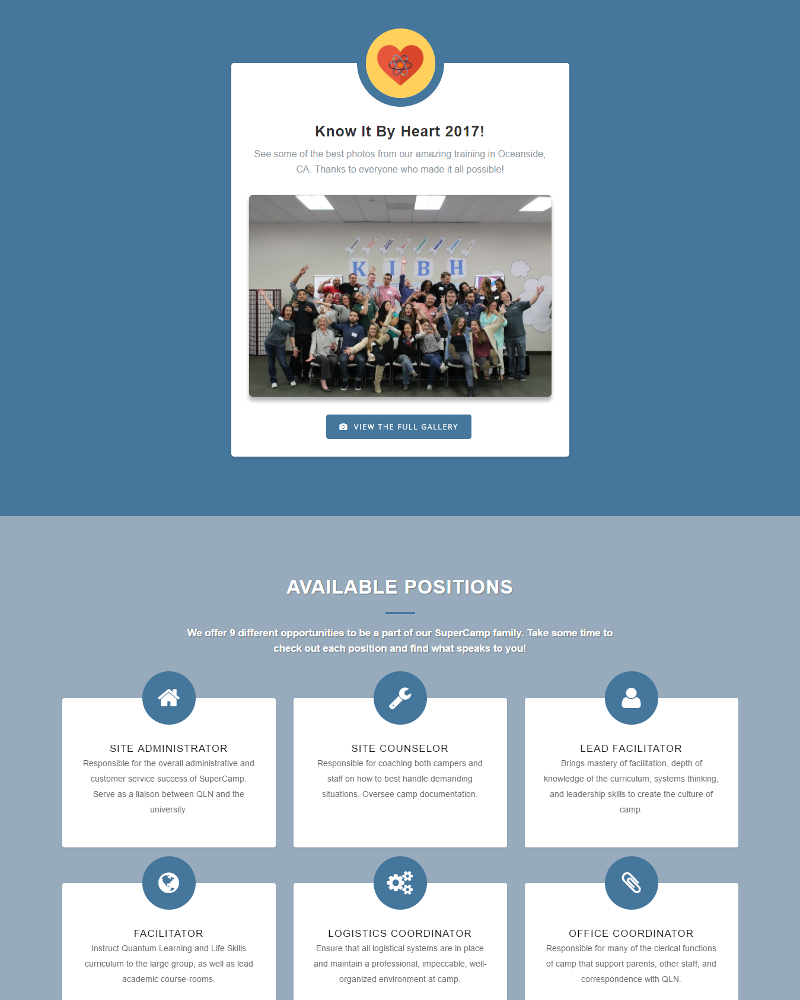
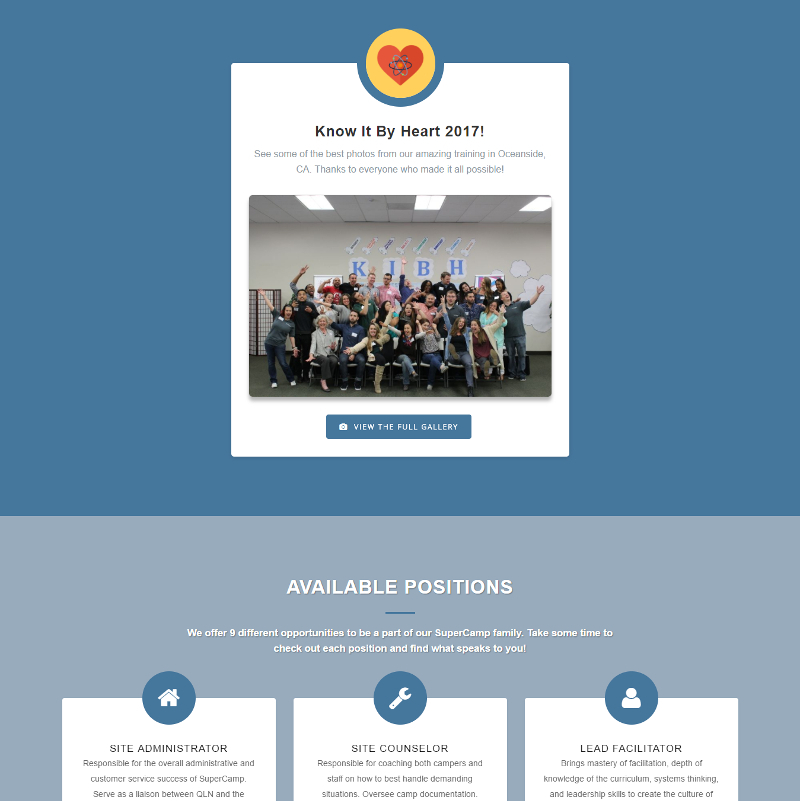
made img 1 shorter and added red cross leadership experience

diff --git a/index.html b/index.html
@@ -400,6 +400,45 @@
 
    	</div> <!-- /resume-timeline -->
 
+    <!-- Leadership -->
+
+    <div class="row resume-timeline">
+
+   		<div class="col-twelve resume-header">
+
+   			<h2>Leadership</h2>
+
+   		</div> <!-- /resume-header -->
+
+   		<div class="col-twelve">
+
+   			<div class="timeline-wrap">
+
+          <div class="timeline-block">
+
+	   				<div class="timeline-ico">
+	   					<i class="fa fa-graduation-cap"></i>
+	   				</div>
+
+	   				<div class="timeline-header">
+	   					<h3>Lifeguard Instructor</h3>
+              <h4>American Red Cross</h4>
+	   					<p>2015-2016</p>
+	   				</div>
+
+	   				<div class="timeline-content">
+	   					<h4>American Red Cross</h4>
+	   					<p>As a Lifeguard Instructor for the American Red Cross, I trained and certified numerous groups of 20-40 adults on CPR, lifeguarding, bloodborne pathogen training, and public safety.</p>
+	   				</div>
+
+	   			</div> <!-- /timeline-block -->
+
+   			</div> <!-- /timeline-wrap -->
+
+   		</div> <!-- /col-twelve -->
+
+   	</div> <!-- /resume-timeline -->
+
 	</section> <!-- /features -->
 
 
